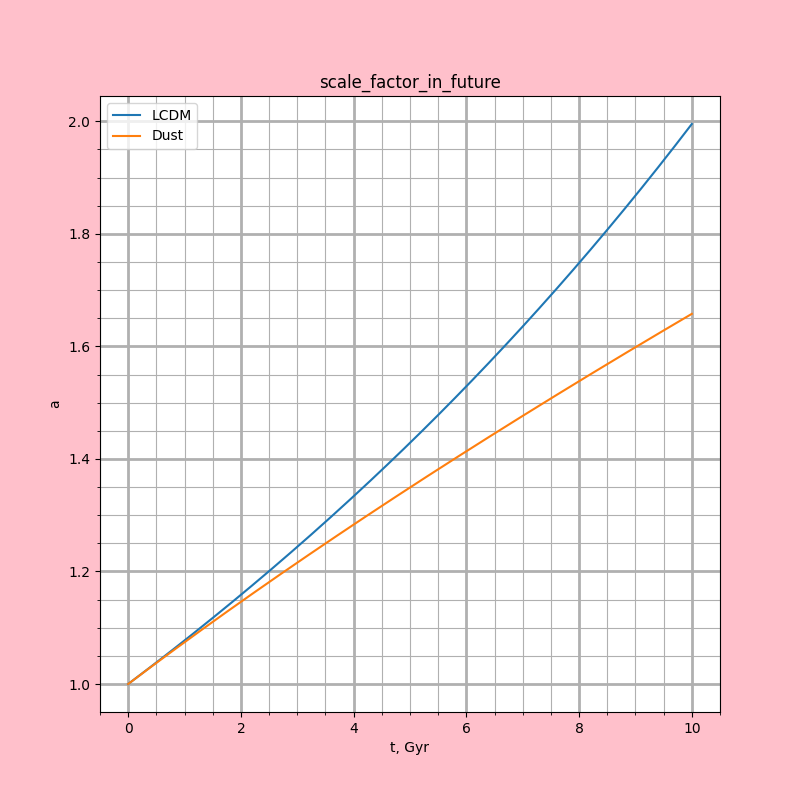
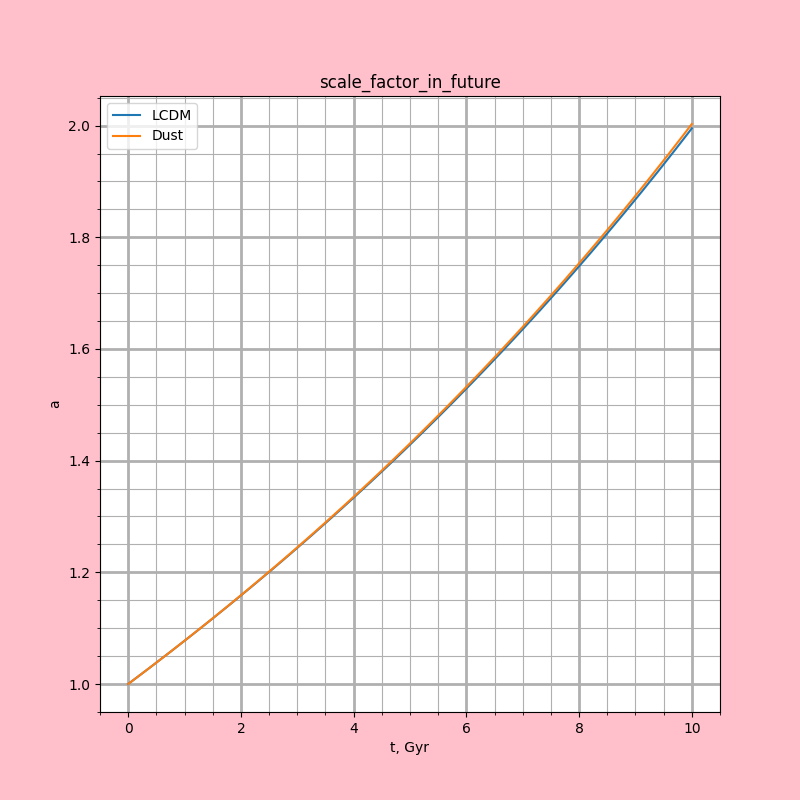
добавлены функции для расчета хи-квадрат

diff --git a/modeling_module/physical_problems/cosmology/solver.py b/modeling_module/physical_problems/cosmology/solver.py
@@ -16,30 +16,32 @@ from scipy.integrate import *
 path = 'modeling_module/physical_problems/cosmology/'
 
 def Friedmann_eqs(ICS,a,eq):
-    t, H, rho_m, rho_r, rho_d = ICS
+    t, H, rho_m, rho_r, rho_d, rho_k = ICS
     rho_s = symbols('rho_s')
     p = eq.subs(rho_s, rho_d)
     dt_da = 1/(H*a)
-    dH_da = -(1/(H*a))*(1/2)*(rho_d+rho_m+(4/3)*rho_r+p)
+    dH_da = -(1/(H*a))*(1/2)*(rho_d+rho_m+(4/3)*rho_r+p+(2/3)*rho_k)
 
     drho_m_da = -(3/a)*rho_m
     drho_r_da = -(4/a)*rho_r
     drho_d_da = -(3/a)*(rho_d+p)
+    drho_k_da = -(2/a)*rho_k
 
-    return dt_da, dH_da, drho_m_da, drho_r_da, drho_d_da
+    return dt_da, dH_da, drho_m_da, drho_r_da, drho_d_da, drho_k_da
 
 def Friedmann_eqs_2(ICS,a,eq):
-    a, H, rho_m, rho_r, rho_d = ICS
+    a, H, rho_m, rho_r, rho_d, rho_k = ICS
     rho_s = symbols('rho_s')
     p = eq.subs(rho_s, rho_d)
     da_dt = H*a
-    dH_dt = -(1/2)*(rho_d+rho_m+(4/3)*rho_r+p)
+    dH_dt = -(1/2)*(rho_d+rho_m+(4/3)*rho_r+p+2*rho_k/3)
 
     drho_m_dt = -(3*H)*rho_m
     drho_r_dt = -(4*H)*rho_r
     drho_d_dt = -(3*H)*(rho_d+p)
+    drho_k_dt = -(2*H)*rho_k
 
-    return da_dt, dH_dt, drho_m_dt, drho_r_dt, drho_d_dt
+    return da_dt, dH_dt, drho_m_dt, drho_r_dt, drho_d_dt, drho_k_dt
 
 class Task_maker():
 
@@ -83,6 +85,7 @@ class Cosmology_calculus():
         self.omega_m = float(model.omega_m)
         self.omega_r = float(model.omega_r)
         self.omega_d = float(model.omega_d)
+        self.omega_k = 1 - self.omega_m - self.omega_r - self.omega_d
         self.EOS = sympify(model.equation_d)
         self.title_of_model = model.title_of_model
 
@@ -116,24 +119,34 @@ class Cosmology_calculus():
         self.err_mu = Data_1.err
         self.err_H = Data_2.err
 
+        self.chi_square_mu = 10000
+        self.H_opt = 72
+
     def mu_diagram(self):
         DL = np.zeros(200)
+        DM = np.zeros(200)
         dist = np.zeros(len(DL))
         for i in range(len(DL)):
             dist0=0
-            z = 0.0001 + self.z_max*i/200
+            z = 0.005 + self.z_max*i/200
             a = 1/(z+1)
             N = int((1-a)//0.01)
             if N<2:
                 N=2
             scale = np.linspace(1,a,N)
-            ICS = 0, 1, 3*self.omega_m, 3*self.omega_r, 3*self.omega_d
+            ICS = 0, 1, 3*self.omega_m, 3*self.omega_r, 3*self.omega_d, 3*self.omega_k
             sol = odeint(Friedmann_eqs, ICS, scale, args = (self.EOS,))
             for j in range(1,N):
                 #dist[i]=dist0 - (scale[j+1]-scale[j])/(sol[j,1]*scale[j]**2)
                 dist[i]=dist0 - 2*(sol[j,0]-sol[j-1,0])/(scale[j]+scale[j-1])
                 dist0 = dist[i]
-            DL[i] = (1+z)*dist[i]
+            if self.omega_k>0:
+                DM[i] = np.sinh(np.sqrt(self.omega_k)*dist[i])/np.sqrt(self.omega_k)
+            if self.omega_k<0:
+                DM[i] = np.sin(np.sqrt(-self.omega_k)*dist[i])/np.sqrt(-self.omega_k)
+            if self.omega_k==0:
+                DM[i] = dist[i]
+            DL[i] = (1+z)*DM[i]
             self.H_i.append(self.H_0*sol[N-1,1])
             self.t_i.append(sol[N-1,0]*13.6*70/self.H_0)
             self.DA.append(DL[i]*(13.6/3.2616)*(70/self.H_0)/(1+z)**2)
@@ -146,7 +159,7 @@ class Cosmology_calculus():
         for i in range(201):
             t = 0.000 + self.t_max*i/200
             times = np.linspace(0,t,2)
-            ICS = 1, 1, 3*self.omega_m,3*self.omega_r, 3*self.omega_d
+            ICS = 1, 1, 3*self.omega_m,3*self.omega_r, 3*self.omega_d, 3*self.omega_k
             sol = odeint(Friedmann_eqs_2, ICS, times, args = (self.EOS,))
             self.scale_factor.append(sol[1,0])
             self.T_i.append(t*13.6*70/self.H_0)
@@ -160,12 +173,13 @@ class Cosmology_calculus():
             a = 1/(self.redshifts_2[i]+1)
             N=2
             scale = np.linspace(1,a,N)
-            ICS = 0, 1, 3*self.omega_m, 3*self.omega_r, 3*self.omega_d
+            ICS = 0, 1, 3*self.omega_m, 3*self.omega_r, 3*self.omega_d, 3*self.omega_k
             sol = odeint(Friedmann_eqs, ICS, scale, args = (self.EOS,))
             self.H_m.append(sol[N-1,1])
 
     def mu_versus_z(self):
         DL = np.zeros(len(self.redshifts_1))
+        DM = np.zeros(len(self.redshifts_1))
         dist = np.zeros(len(DL))
         for i in range(len(DL)):
             dist0=0
@@ -174,14 +188,44 @@ class Cosmology_calculus():
             if N<2:
                 N=2
             scale = np.linspace(1,a,N)
-            ICS = 0, 1, 3*self.omega_m, 3*self.omega_r, 3*self.omega_d
+            ICS = 0, 1, 3*self.omega_m, 3*self.omega_r, 3*self.omega_d, 3*self.omega_k
             sol = odeint(Friedmann_eqs, ICS, scale, args = (self.EOS,))
             for j in range(1,N):
                 #dist[i]=dist0 - (scale[j+1]-scale[j])/(sol[j,1]*scale[j]**2)
                 dist[i]=dist0 - 2*(sol[j,0]-sol[j-1,0])/(scale[j]+scale[j-1])
                 dist0 = dist[i]
-            DL[i] = (1+self.redshifts_1[i])*dist[i]
-            self.mu_m.append(5*np.log10(DL[i]))
+            if self.omega_k>0:
+                DM[i] = np.sinh(np.sqrt(self.omega_k)*dist[i])/np.sqrt(self.omega_k)
+            if self.omega_k<0:
+                DM[i] = np.sin(np.sqrt(-self.omega_k)*dist[i])/np.sqrt(-self.omega_k)
+            if self.omega_k==0:
+                DM[i] = dist[i]
+            DL[i] = (1+self.redshifts_1[i])*DM[i]
+            self.mu_m.append(5*np.log10(DL[i])-5*np.log10(self.H_0/100)+43.16-0.713)
+
+    def chi_square_magnitude(self):
+        A0,B0,C0 = 0,0,0
+        for i in range(0,len(self.mu_m)):
+            A = A0 + (self.mu_m[i] - self.mu_o[i])**2/self.err_mu[i]**2
+            B = B0 + (self.mu_m[i] - self.mu_o[i])/self.err_mu[i]**2
+            C = C0 + 1/self.err_mu[i]**2
+            C0 = C
+            B0 = B
+            A0 = A
+        self.chi_square_mu = A-B**2/C
+        self.H_opt = 70*10**((B/C+42.384)/5)/299752458
+
+    def chi_square_hubble(self):
+        A0,B0,C01 = 0,0,0
+        for i in range(len(self.H_o)):
+            A = A0 + self.H_o[i]**2/self.err_H[i]**2
+            B = B0 + self.H_o[i]*self.H_m[i]/self.err_H[i]**2
+            C1 = C01 + self.H_m[i]**2/self.err_H[i]**2
+            C01 = C1
+            B0 = B
+            A0 = A
+        self.chi_square_H = A-B**2/C1
+        self.H_opt = B/C1
 
 class Visualization:
 

diff --git a/modeling_module/physical_problems/cosmology/1_SNe_viscous.py b/modeling_module/physical_problems/cosmology/1_SNe_viscous.py
@@ -14,37 +14,6 @@ from matplotlib.colors import LogNorm
 import matplotlib.gridspec as gridspec
 
 
-
-
-
-
-
-
-
-
-def chi_square(mu,mu0,err):
-    A0,B0,C0 = 0,0,0
-    for i in range(1,len(mu0)):
-        A = A0 + (mu[i] - mu0[i])**2/err[i]**2
-        B = B0 + (mu[i] - mu0[i])/err[i]**2
-        C = C0 + 1/err[i]**2
-        C0 = C
-        B0 = B
-        A0 = A
-    return  A-B**2/C, 10**((B/C+42.384)/5)
-
-def chi_square_2(H,H0,err):
-    A0,B0,C01 = 0,0,0
-    for i in range(len(H0)):
-        A = A0 + H0[i]**2/err[i]**2
-        B = B0 + H0[i]*H[i]/err[i]**2
-        C1 = C01 + H[i]**2/err[i]**2
-        C01 = C1
-        B0 = B
-        A0 = A
-    return  A-B**2/C1, B/C1
-
-
 def definition_opt(Omega_min, chi_max, a1, a2, a3):
     Omega_d=Omega_min
     w0 = a1

diff --git a/modeling_module/physical_problems/cosmology/__init__.py b/modeling_module/physical_problems/cosmology/__init__.py
@@ -37,6 +37,9 @@ class Model:
 		for model in self.models:
 			model.mu_diagram()
 			model.integration()
+			model.hubble_versus_z()
+			model.chi_square_hubble()
+			print(model.chi_square_H, model.H_opt)
 			self.models_1.append(model)
 
 		self.GRAPH = Visualization(self.models_1)
